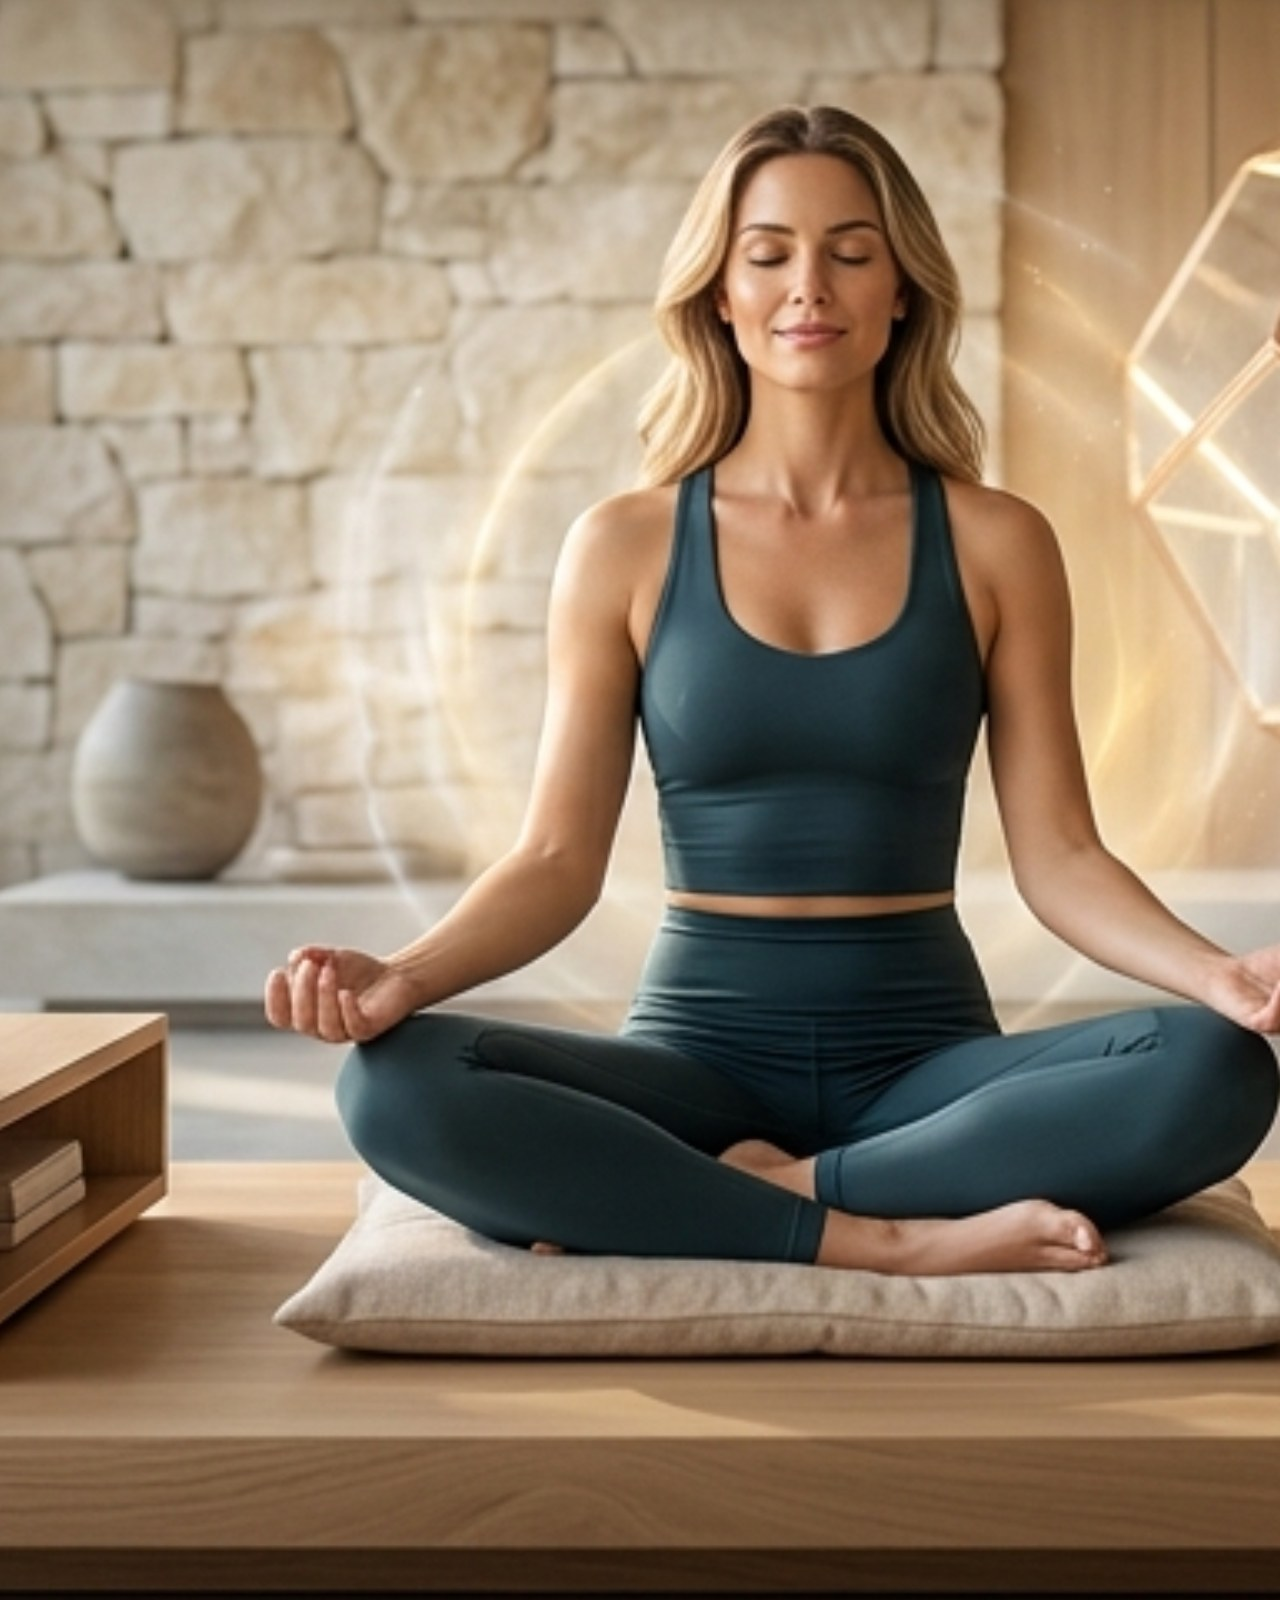
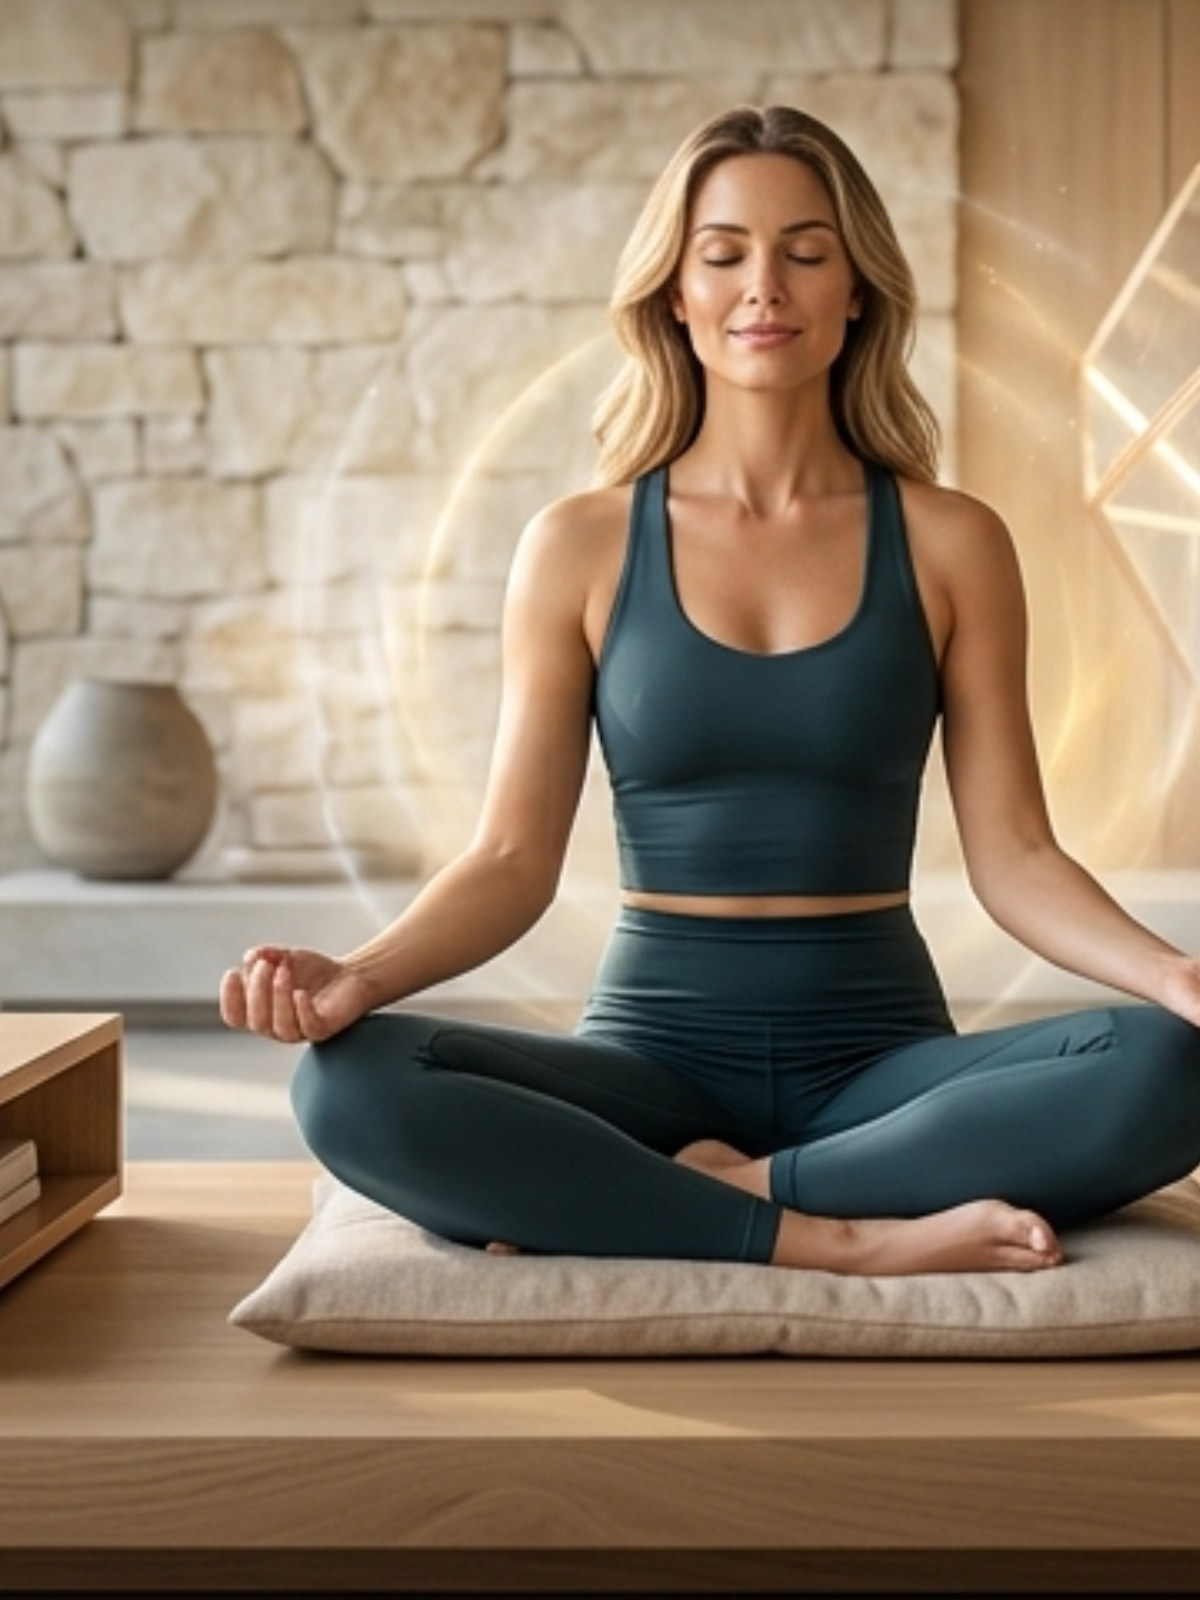
Ajustes al hero y a la sección de productos
- Recorte del hero recentrado en la figura, sin animación de zoom
  (imagen fija)
- Se saca el texto arriba del H1 y se actualiza la bajada del hero
- Se elimina el label "01 PRODUCTOS" y el texto "Nuestra selección"
  de la sección de productos, dejando solo el título

diff --git a/index.html b/index.html
@@ -139,10 +139,6 @@
 
             <div class="hero-content reveal">
 
-                <p class="eyebrow">
-                    Bienestar integral
-                </p>
-
                 <h1>
                     Bio Prana Vital
                 </h1>
@@ -152,8 +148,8 @@
                 </p>
 
                 <p class="hero-text">
-                    Aceites, geles y dodecaedros en piedra natural
-                    para tu bienestar diario.
+                    Equilibrio esencial de cuerpo, mente,
+                    emoción y espíritu.
                 </p>
 
                 <div class="hero-actions">
@@ -219,25 +215,12 @@
 
             <div class="container">
 
-                <div class="section-heading reveal">
+                <div class="section-heading section-heading--simple reveal">
 
-                    <div class="section-label">
-                        <span>01</span>
-                        <small>PRODUCTOS</small>
-                    </div>
-
-                    <div>
-
-                        <p class="eyebrow">
-                            Nuestra selección
-                        </p>
-
-                        <h2>
-                            Elegí tu ritual
-                            de bienestar
-                        </h2>
-
-                    </div>
+                    <h2>
+                        Elegí tu ritual
+                        de bienestar
+                    </h2>
 
                 </div>
 

diff --git a/css/style.css b/css/style.css
@@ -338,7 +338,7 @@ button {
 
 .hero-background {
     position: absolute;
-    inset: -5%;
+    inset: 0;
 
     overflow: hidden;
 }
@@ -356,22 +356,6 @@ button {
 
     object-fit: cover;
     object-position: center;
-
-    transform: scale(1.05);
-
-    animation: heroZoom 14s ease-out forwards;
-}
-
-@keyframes heroZoom {
-
-    from {
-        transform: scale(1.12);
-    }
-
-    to {
-        transform: scale(1);
-    }
-
 }
 
 .hero-overlay {
@@ -702,6 +686,10 @@ button {
     gap: 70px;
 
     margin-bottom: 60px;
+}
+
+.section-heading--simple {
+    display: block;
 }
 
 .heading-text {
